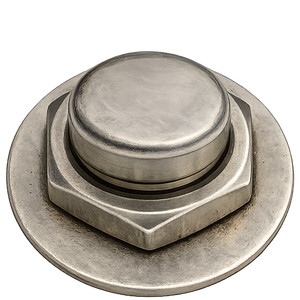
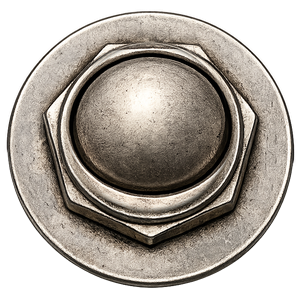
/revfx player: titanium section plates with screws; the switch from higher up
Yoni: the switch was too side-on; metal panels on each section, titanium with
a bit of its colour effect. The switch is re-shot ~8 deg off overhead, its
pressed state a masked edit so the washer and nut never move. The screen,
PLAY, STOMP, VOLUME and the switch now sit on titanium plates (a heat-tinted
sheet, each plate its own patch of it), with real screws in the corners and
machined edges.

diff --git a/src/styles/revfx.css b/src/styles/revfx.css
@@ -268,6 +268,33 @@
 .rfx-jack-plug img { display: block; height: 100%; width: auto; max-width: none; }
 .rfx-jack[aria-pressed='true'] .rfx-jack-plug { opacity: 1; translate: 0 0; }
 
+/* THE PLATES: every section sits on a titanium plate (titanium.jpg, its violet-blue heat tint; each plate shows its own
+   patch of the sheet, --tx / --ty, so the tint wanders), darkened a touch, machined edges (a light top bevel, a dark
+   seam, a lift shadow onto the tolex) and four real screws (screw.png) in its corners. */
+.rfx-plate {
+  --tx: 30%; --ty: 50%; --sc: 10px; --sc-in: 6px;
+  position: relative; isolation: isolate; border-radius: 4px;
+  background:
+    linear-gradient(180deg, rgba(255, 255, 255, .06), rgba(0, 0, 0, .22)),
+    linear-gradient(rgba(12, 10, 16, .4), rgba(12, 10, 16, .4)),
+    var(--rfx-ti) var(--tx) var(--ty) / 1100px auto, #3b3a41;
+  box-shadow: 0 0 0 1px rgba(0, 0, 0, .85), inset 0 1px 0 rgba(255, 255, 255, .3), inset 0 -1px 0 rgba(0, 0, 0, .6),
+    inset 1px 0 0 rgba(255, 255, 255, .1), inset -1px 0 0 rgba(0, 0, 0, .35), 0 5px 9px rgba(0, 0, 0, .6);
+}
+.rfx-plate::after {
+  content: ''; position: absolute; inset: 0; z-index: -1; pointer-events: none; border-radius: inherit;
+  background:
+    var(--rfx-screw) left var(--sc-in) top var(--sc-in) / var(--sc) no-repeat,
+    var(--rfx-screw) right var(--sc-in) top var(--sc-in) / var(--sc) no-repeat,
+    var(--rfx-screw) left var(--sc-in) bottom var(--sc-in) / var(--sc) no-repeat,
+    var(--rfx-screw) right var(--sc-in) bottom var(--sc-in) / var(--sc) no-repeat;
+  filter: drop-shadow(0 1px 1px rgba(0, 0, 0, .85));
+}
+.rfx-plate--scr { --tx: 8%; --ty: 30%; padding: 12px 24px; }
+.rfx-hear-step--play { --tx: 72%; --ty: 70%; }
+.rfx-hear-step--stomp { --tx: 50%; --ty: 45%; }
+.rfx-hear-vol { --tx: 95%; --ty: 20%; }
+
 /* ---- the deck */
 .rfx-hear-deck { display: flex; flex-direction: column; gap: 12px; min-width: 0; }
 
@@ -307,12 +334,7 @@
 
 /* ---- the rig: 2 PLAY · 3 STOMP (the board) · VOLUME, each in a shallow well cut into the tolex */
 .rfx-hear-rig { display: grid; grid-template-columns: auto minmax(0, 1fr) auto; gap: 12px; flex: 1; }
-.rfx-hear-step, .rfx-hear-vol {
-  display: flex; flex-direction: column; gap: 9px; padding: 10px 12px 10px; border-radius: 6px;
-  background: rgba(5, 4, 7, .55);
-  box-shadow: 0 0 0 1px rgba(0, 0, 0, .7), 0 1px 0 1px rgba(255, 255, 255, .05), inset 0 8px 14px -8px rgba(0, 0, 0, .9);
-}
-.rfx-hear-step--play { padding-inline: 16px; }
+.rfx-hear-step, .rfx-hear-vol { display: flex; flex-direction: column; gap: 9px; padding: 11px 22px 12px; }
 .rfx-hear-step--stomp { container-type: inline-size; min-width: 0; }
 .rfx-hear-caps { display: flex; align-items: center; justify-content: center; gap: 12px; flex: 1; }
 .rfx-hear-caps .d-cap { width: 54px; height: 54px; }
@@ -323,10 +345,10 @@
 
 /* the pedalboard: board-wide.jpg (3:1, laptop; phones board-mid.jpg 2.1:1) = carpet + the two aluminium rails (5 % each) */
 .rfx-hear-board {
-  /* the footswitch (1.25 pedals wide), the five and their gaps fill what the padding leaves (100cqw = the STOMP well's
-     width): pedal = (well - --fix) / (6.25 + 5 x --pgk), gap = pedal x --pgk */
-  --fix: 66px; --pgk: .5;
-  --pm: clamp(28px, calc((100cqw - var(--fix)) / (6.25 + 5 * var(--pgk))), 56px);   /* a mini pedal's width */
+  /* the switch plate (1.34 pedals wide), the five and their gaps fill what the padding leaves (100cqw = the STOMP
+     plate's width): pedal = (plate - --fix) / (6.34 + 5 x --pgk), gap = pedal x --pgk */
+  --fix: 86px; --pgk: .5;
+  --pm: clamp(28px, calc((100cqw - var(--fix)) / (6.34 + 5 * var(--pgk))), 56px);   /* a mini pedal's width */
   --pg: calc(var(--pm) * var(--pgk));        /* the gap between two pedals (a patch cable spans it) */
   --mid: calc(var(--pm) * .9);               /* the board's signal line (patch cables, jacks, the switch) from the top */
   position: relative; flex: 1; display: flex; align-items: flex-start; justify-content: center; gap: var(--pg);
@@ -338,8 +360,8 @@
 /* the footswitch (fsw-up / fsw-down.png share one frame: the washer + nut stay, only the cap moves) under its LED. It
    latches: popped up on BYPASS, held down on REVFX; while the foot is on it (.is-down) it shows down whatever the state,
    so a stomp off goes down and then pops up on release. The guide breathes as a soft purple light round the switch. */
-.rfx-stomp { position: relative; z-index: 3; flex: none; width: calc(var(--pm) * 1.25); display: flex; flex-direction: column; align-items: center;
-  gap: calc(var(--pm) * .12); padding-top: calc(var(--pm) * .22); }
+.rfx-stomp { --tx: 62%; --ty: 35%; --sc: 7px; --sc-in: 4px; z-index: 3; flex: none; width: calc(var(--pm) * 1.34); display: flex; flex-direction: column;
+  align-items: center; gap: calc(var(--pm) * .08); padding: calc(var(--pm) * .14) calc(var(--pm) * .12) calc(var(--pm) * .1); }
 .rfx-stomp-led { position: relative; width: calc(var(--pm) * .3); aspect-ratio: 1; }
 .rfx-stomp-led img { position: absolute; inset: 0; width: 100%; height: 100%; -webkit-user-drag: none; }
 .rfx-stomp-led .lit { opacity: 0; transition: opacity .06s ease; }
@@ -376,7 +398,7 @@
 [data-ab='after'] .rfx-peds-mini > li:not(.is-out) { animation: rfx-pp-stomp .34s cubic-bezier(.3, 1.5, .5, 1) both; animation-delay: calc(var(--i) * 90ms); }
 @keyframes rfx-pp-stomp { 0% { transform: none; } 35% { transform: translateY(2px) scale(1.03, .96); } 100% { transform: none; } }
 /* VOLUME: /drift's fader photos (its plate + cap), the fill in RevFX purple in the plate's slot */
-.rfx-hear-vol { align-items: center; gap: 6px; padding: 10px 8px 8px; }
+.rfx-hear-vol { --sc: 7px; --sc-in: 4px; align-items: center; gap: 6px; padding: 18px 14px 18px; }   /* the narrow plate: small screws, the readout clear of them */
 .rfx-hear-vol .rfx-vol-slot { --fad: var(--d-neon); --fad-rgb: var(--d-neon-rgb); width: 40px; flex: 1; min-height: 70px; margin: 4px 0 8px; }
 .rfx-hear-vol .rfx-vol-slot::before { display: none; }
 .rfx-vol-plate { position: absolute; left: 50%; top: -8px; bottom: -8px; width: 22px; translate: -50% 0; pointer-events: none;
@@ -398,9 +420,9 @@
   .rfx-hear-panel { background-image: var(--rfx-panel-t); }
   .rfx-hear-rig { grid-template-columns: minmax(0, 1fr) auto; grid-template-areas: 'stomp stomp' 'play vol'; }
   .rfx-hear-step--stomp { grid-area: stomp; }
-  .rfx-hear-step--play { grid-area: play; flex-direction: row; align-items: center; justify-content: space-between; padding: 8px 14px; }
+  .rfx-hear-step--play { grid-area: play; flex-direction: row; align-items: center; justify-content: space-between; padding: 10px 22px; }
   .rfx-hear-step--play .rfx-hear-caps { flex: none; }
-  .rfx-hear-vol { grid-area: vol; flex-direction: row; padding: 6px 12px; }
+  .rfx-hear-vol { grid-area: vol; flex-direction: row; padding: 6px 20px; }
   .rfx-hear-vol .rfx-vol-slot { width: 34px; min-height: 0; height: 56px; flex: none; margin: 6px 0; }
   .rfx-jacks { flex-direction: row; }
   .rfx-jacks li { border-top: 0; box-shadow: none; border-left: 1px solid rgba(0, 0, 0, .55); }
@@ -430,12 +452,15 @@
   .rfx-hear-screen [data-hear-chain] { display: none; }
   .rfx-scr-row { justify-content: flex-end; }
   .rfx-hear-rig { gap: 8px; }
-  .rfx-hear-step--play { padding: 8px 12px; }
+  .rfx-hear-step--play { padding: 10px 18px; }
+  .rfx-plate { --sc: 8px; --sc-in: 5px; }
+  .rfx-plate--scr { padding: 9px 16px; }
+  .rfx-stomp { --sc: 6px; --sc-in: 3px; }
   .rfx-hear-caps .d-cap { width: 46px; height: 46px; }
-  .rfx-hear-vol { padding: 6px 10px; }
+  .rfx-hear-vol { padding: 6px 16px; }
   .rfx-hear-vol .rfx-vol-slot { height: 52px; }
-  .rfx-hear-step { padding: 8px 8px 8px; gap: 8px; }
-  .rfx-hear-board { --fix: 40px; --pgk: .2; gap: 8px; padding: 12px 8px 14px; background-image: var(--rfx-board-m); }
+  .rfx-hear-step { padding: 10px 14px 10px; gap: 8px; }
+  .rfx-hear-board { --fix: 52px; --pgk: .2; gap: 8px; padding: 12px 8px 14px; background-image: var(--rfx-board-m); }
   .rfx-pm-nm { font-size: 7px; letter-spacing: .01em; }
 }
 @media (max-width: 380px) { .rfx-scr-coach { font-size: 9px; letter-spacing: 0; } .rfx-jack-nm { font-size: 9.5px; } }

diff --git a/tools/revfx-player/ASSETS.md b/tools/revfx-player/ASSETS.md
@@ -13,15 +13,18 @@ OpenAI (`shared/tools/openai/`). Files: `src/assets/seasons/revfx/hear/`.
 | `jack.png` | 1/4" jack socket, front-on, true alpha | gpt-image-1.5 (`jack-2`) | the 4 inputs |
 | `plug.png` | right-angle plug from the front + purple tweed cable | gpt-image-1.5 (`plug-1`) | the picked input |
 | `patch.png` | pancake patch cable, top-down | gpt-image-1.5 (`patch-1`) | between the five |
-| `fsw-up.png` / `fsw-down.png` | aged nickel 3PDT footswitch with patina, near top-down, popped up / pressed (down = an edit of up, scaled + placed on the washer so only the cap moves) | gpt-image-1.5 (`gen-assets-5.ps1`, roll 3) | the STOMP switch: up = BYPASS, down = REVFX (it latches) |
+| `fsw-up.png` / `fsw-down.png` | aged nickel 3PDT footswitch with patina, ~8 deg off overhead, popped up / pressed | gpt-image-1.5 (`gen-assets-6.ps1`, roll 2); down = a MASKED edit of up (only a circle over the cap repaints) composited back into up's pixels, so the washer + nut never move | the STOMP switch: up = BYPASS, down = REVFX (it latches) |
+| `titanium.jpg` | dark satin titanium sheet with a soft violet-blue heat-tint band + a touch of gold (2:1) | gpt-image-2 (`gen-assets-7.ps1`, roll 2) | every section's plate (screen, PLAY, STOMP, VOLUME, the switch plate), each showing its own patch of the sheet |
+| `screw.png` | Phillips pan-head screw, aged nickel, top-down | gpt-image-1.5 (`gen-assets-6.ps1`, roll 1) | the 4 corners of every plate |
 | `led.png` | chrome LED bezel, off | gpt-image-1.5 | above the switch |
 | `led-lit.png` | the same bezel lit violet (an edit, same crop) | gpt-image-1.5 edit | above the switch, REVFX on |
 
 Prompts: `gen-assets-1.ps1` (8 assets x 2 rolls), `gen-assets-2.ps1` (the plates again at their display ratios,
 reference-guided) `gen-assets-3.ps1` (a looper pedal: Yoni said the first shiny chrome switch "looks toyish"; then "its the whole pedal, i
 meant just the switch ... a bit of petina ... when pressed make it stay pressed and when bypassed make it pop out"),
-`gen-assets-4.ps1` (the switch at ~45 deg: too side-on for the flat board) and `gen-assets-5.ps1` (the pick: near
-top-down + its pressed edit). Each writes next to itself; crop / size with the numbers in the component (alpha bbox, square
+`gen-assets-4.ps1` (the switch at ~45 deg: too side-on for the flat board), `gen-assets-5.ps1` (~15 deg: Yoni "still
+too much on a side view"), `gen-assets-6.ps1` (~8 deg, the pick, + plain steel textures and the screws) and
+`gen-assets-7.ps1` (titanium: Yoni "maybe use titanium vibe with a bit of the titanium color effect"). Each writes next to itself; crop / size with the numbers in the component (alpha bbox, square
 crop on round parts, one shared crop box for the two LED states).
 
 Rules learned:
@@ -29,4 +32,8 @@ Rules learned:
   `gpt-image-1.5` = transparent cutouts.
 - Make a plate at the ratio it shows at and stretch it. 9-slicing (`border-image ... round`) the first plates left
   visible seams on the rails and plate edges.
+- A pressed / lit state made by a plain edit drifts (the washer grew a second edge): mask the edit to the part that
+  moves and composite it back into the original's pixels.
+- Plates that must fit any box: a texture photo (cover, per-plate offset) + real screw photos as 4 background layers +
+  CSS bevels, never one stretched plate photo.
 - The fader is /drift's (`src/assets/seasons/drift/hear/fader-*.webp`), so the site keeps one fader.

diff --git a/tasks/handoff.md b/tasks/handoff.md
@@ -43,6 +43,11 @@ Claim: OPEN `revaudio-0d`. Files: `src/components/revfx/RfxHear.astro` (new), `s
   (`fsw-up/fsw-down.png`, near top-down, the pressed photo aligned on the washer so only the cap moves) + the LED above
   it. Latches: up on BYPASS, down + LED lit on REVFX; down while the foot is on it either way. Fit at 10 widths clean,
   click-through clean, build green. 6 more OpenAI images.
+- Round 5 (Yoni: the switch "too much on a side view ... more from upper angle, still make some angle"; "metal panels
+  on each section including the stomp switch"; "titanium vibe with a bit of the titanium color effect"): new switch at
+  ~8 deg (pressed = masked edit, base pixel-identical); every section (screen, PLAY, STOMP, VOLUME) + the switch on
+  titanium plates (titanium.jpg heat tint, 4 screw.png corners, CSS bevels). Fit at 10 widths clean, click-through
+  clean, build green. 7 more OpenAI images.
 - Next: Yoni's look + his sounds. Branch only; main (= live deploy) waits for his "push".
 
 ## 2026-11-04 — GAS 2 postcards: the end page scrolls as one page, the footer under it (Claude Code `danavivi-c2 [ca2821]`, Dan's Mac) — PUSHED TO MAIN 2026-11-04 on Dan's word "perfect push to main" (from `fix/gas2-end-flow`)
